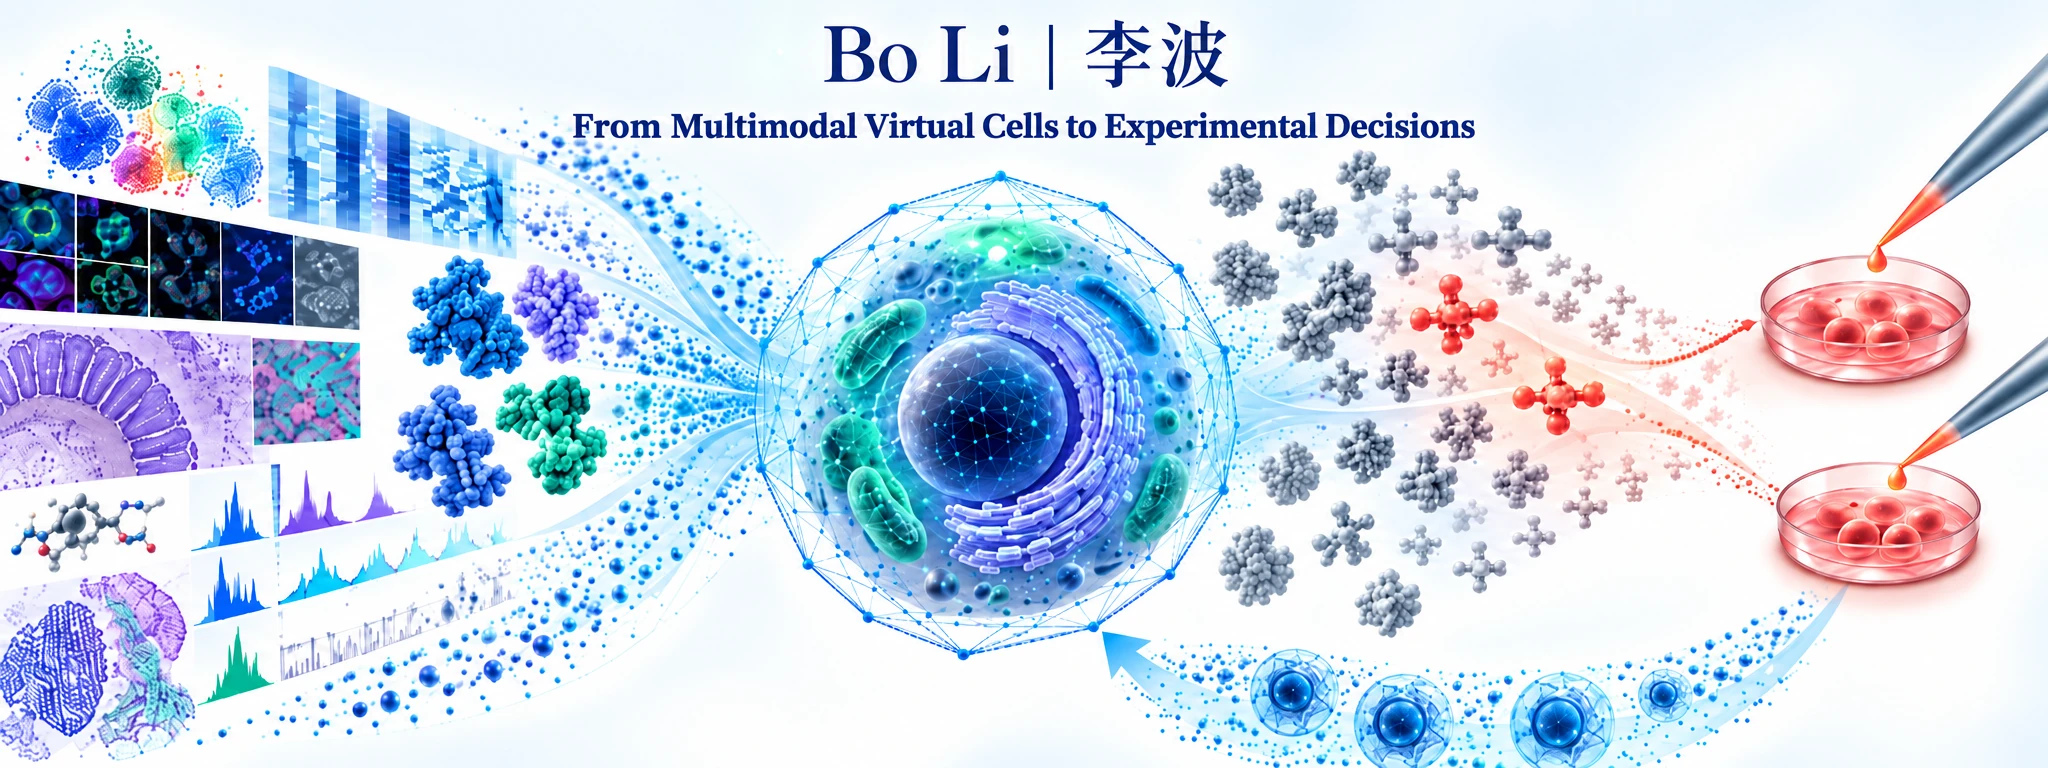
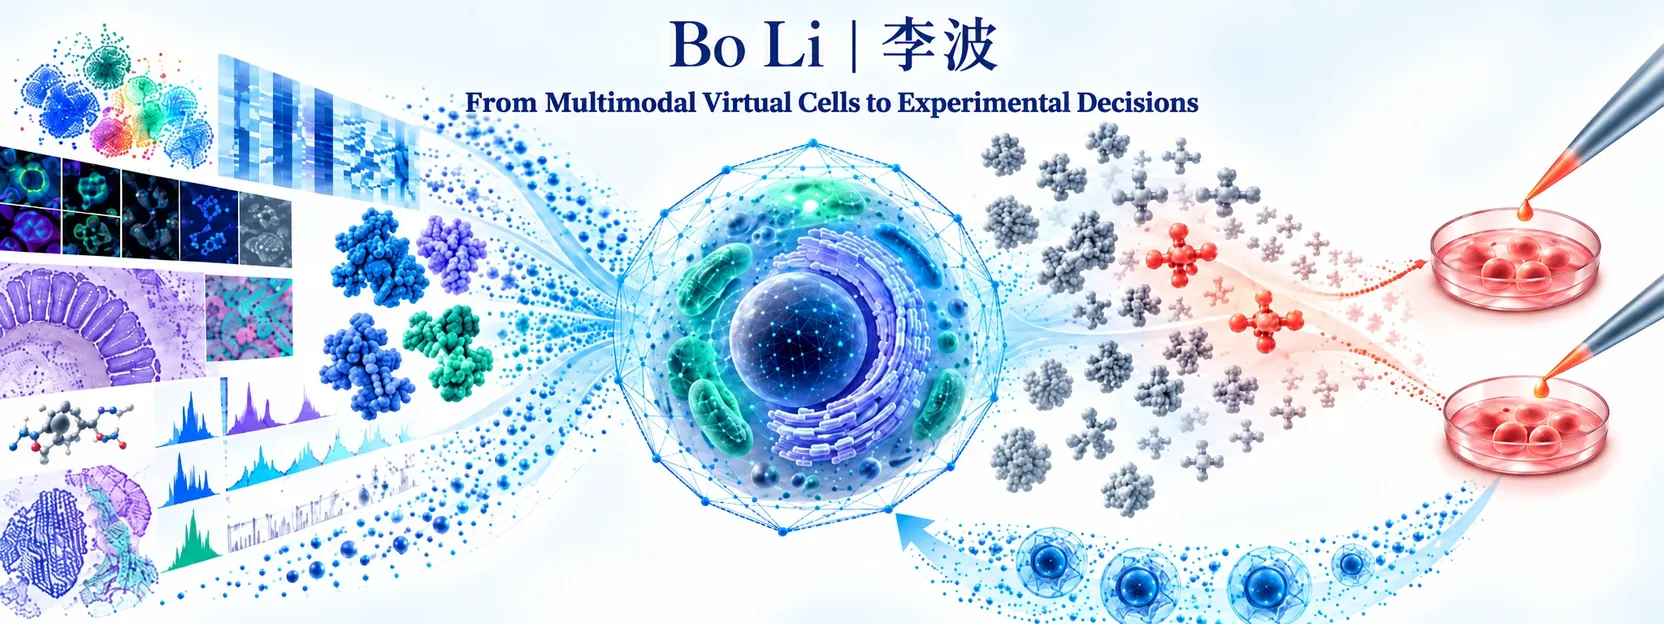
Improve profile README loading performance
Reduce the cover image from 342,788 to 170,986 bytes while retaining its content and responsive layout. Replace five external Shields.io badges with accessible text links, preserving all contact destinations and research keywords.

diff --git a/README.md b/README.md
@@ -3,11 +3,11 @@
 </p>
 
 <p align="center">
-  <a href="https://boom5426.github.io/"><img src="https://img.shields.io/badge/Homepage-0B6E99?style=flat-square&logo=googlechrome&logoColor=white" /></a>
-  <a href="https://scholar.google.com/citations?hl=zh-CN&user=y1myk_IAAAAJ&view_op=list_works&sortby=pubdate"><img src="https://img.shields.io/badge/Google%20Scholar-4285F4?style=flat-square&logo=googlescholar&logoColor=white" /></a>
-  <a href="https://orcid.org/0000-0003-0608-1502"><img src="https://img.shields.io/badge/ORCID-A6CE39?style=flat-square&logo=orcid&logoColor=white" /></a>
-  <a href="mailto:19919920960@163.com"><img src="https://img.shields.io/badge/Email-EA4335?style=flat-square&logo=gmail&logoColor=white" /></a>
-  <a href="./WeChat.png"><img src="https://img.shields.io/badge/WeChat-07C160?style=flat-square&logo=wechat&logoColor=white" /></a>
+  <a href="https://boom5426.github.io/">🌐 Homepage</a> &nbsp;·&nbsp;
+  <a href="https://scholar.google.com/citations?hl=zh-CN&user=y1myk_IAAAAJ&view_op=list_works&sortby=pubdate">🎓 Google Scholar</a> &nbsp;·&nbsp;
+  <a href="https://orcid.org/0000-0003-0608-1502">ORCID</a> &nbsp;·&nbsp;
+  <a href="mailto:19919920960@163.com">✉ Email</a> &nbsp;·&nbsp;
+  <a href="./WeChat.png">💬 WeChat</a>
 </p>
 
 <p align="center">
